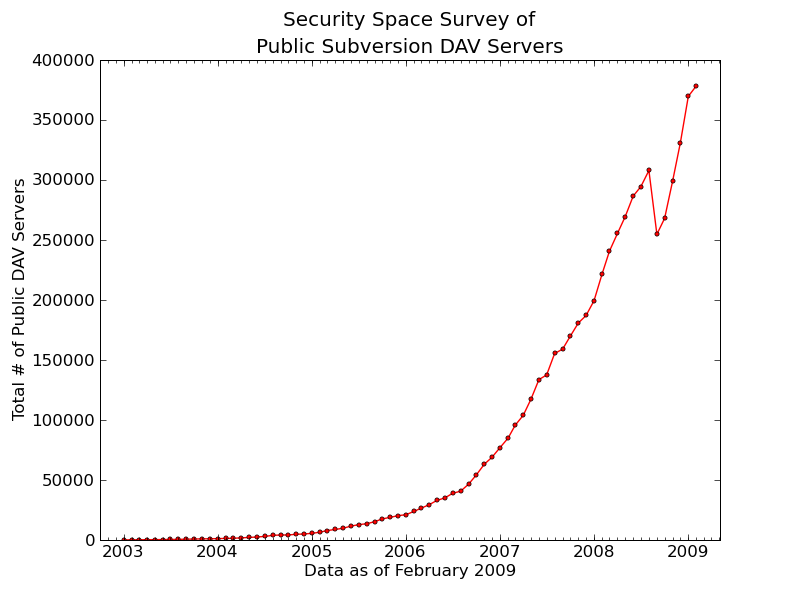
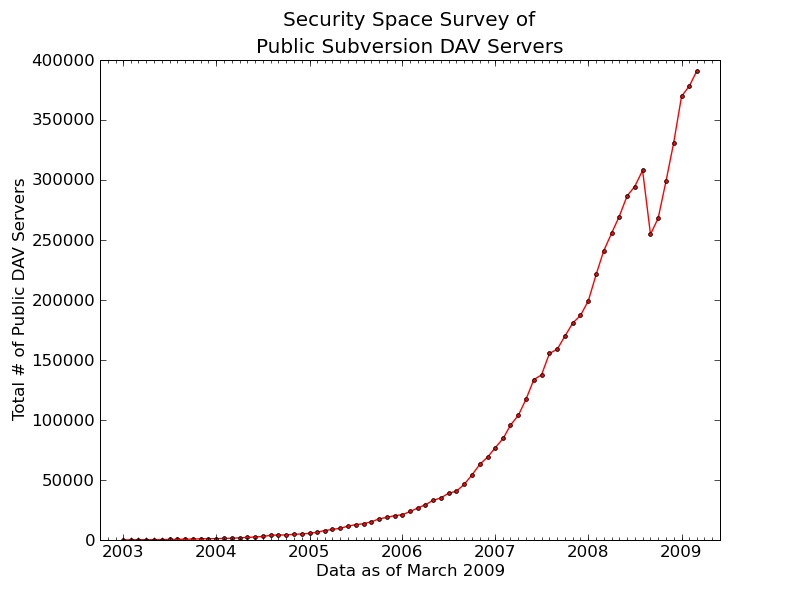
Update the dav server survey for March 2009.
* www/svn-dav-securityspace-survey.html,
  www/images/svn-dav-securityspace-survey.png,
  tools/dev/graph-dav-servers.py:
  Update image and table.

git-svn-id: http://svn.apache.org/repos/asf/subversion/trunk@876237 13f79535-47bb-0310-9956-ffa450edef68

diff --git a/www/svn-dav-securityspace-survey.html b/www/svn-dav-securityspace-survey.html
@@ -44,6 +44,7 @@ for <code>mod_dav_svn</code>.  Thanks Security Space!</p>
 <table style="margin-left: auto; margin-right: auto;" border="0"
   cellpadding="5" cellspacing="0">
   <tr><th>Date</th><th># Servers</th></tr>
+  <tr><td>March 2009</td><td style="text-align: right">390,502</td></tr>
   <tr><td>February 2009</td><td style="text-align: right">378,434</td></tr>
   <tr><td>Janurary 2009</td><td style="text-align: right">368,719</td></tr>
   <tr><td>December 2008</td><td style="text-align: right">330,884</td></tr>

diff --git a/tools/dev/graph-dav-servers.py b/tools/dev/graph-dav-servers.py
@@ -98,6 +98,7 @@ STATS = [
   ('12/1/2008', 330884),
   ('1/1/2009', 369719),
   ('2/1/2009', 378434),
+  ('3/1/2009', 390502),
   ]
 
 
